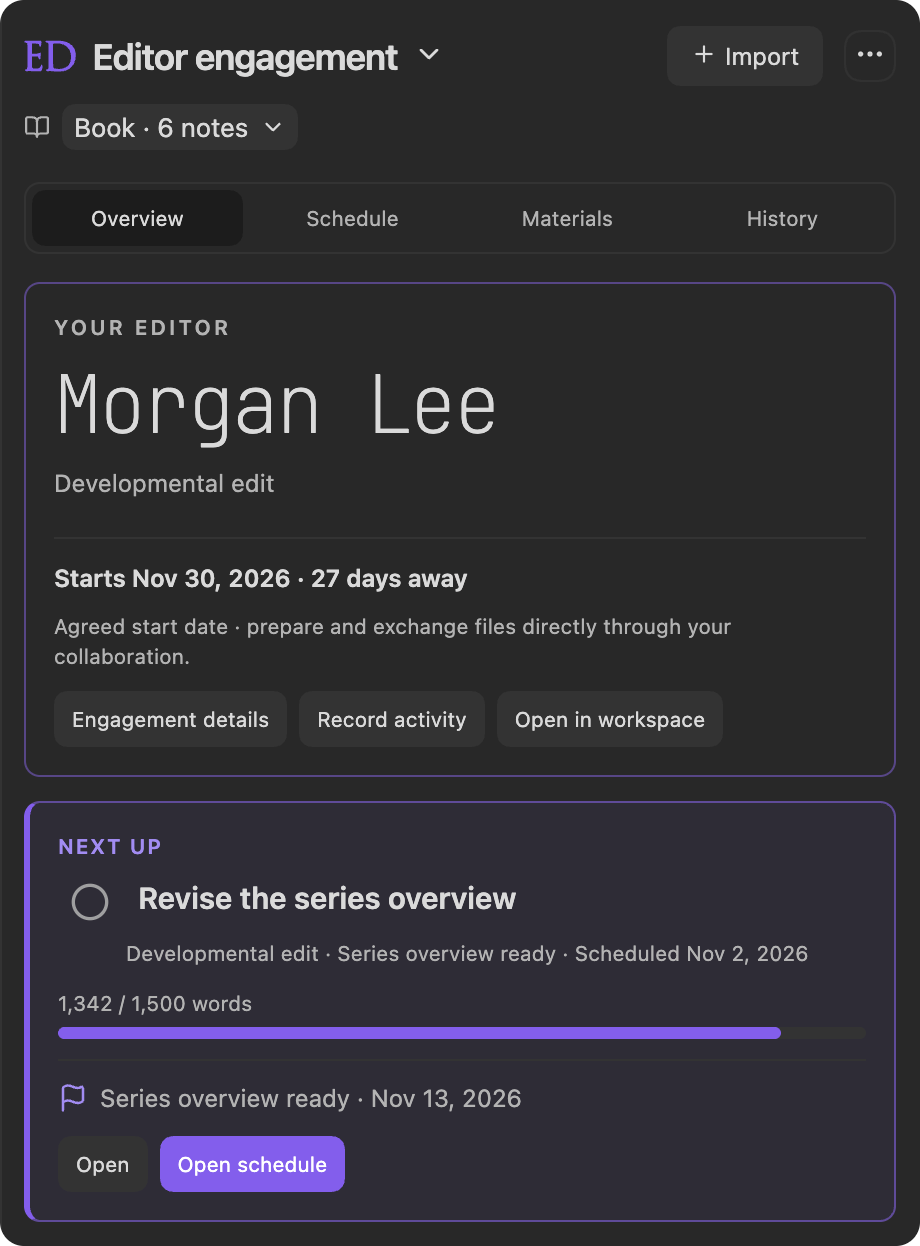
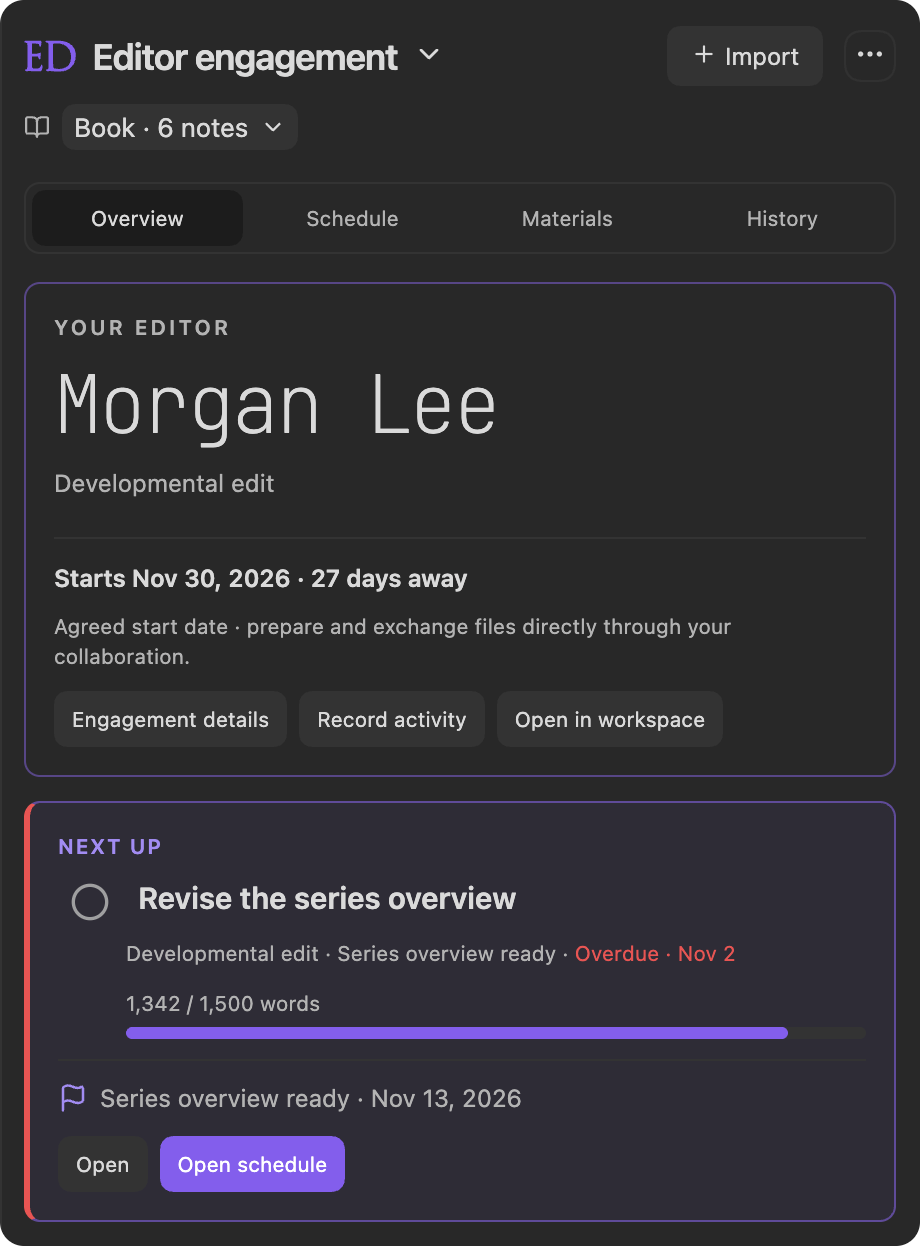
Clear the follow-ups from the 3.1.0 release review
Eric chose a fix for each thing the 3.1.0 screenshot pass turned up.

Scene inventory. The four number columns were a fixed 7.2rem, so in
Obsidian's default settings window a scene name showed as "33 Col…" and in a
narrower one vanished, with "Scene" printed over "Imports". Headers now wrap,
so the number columns are 5.8rem; the table keeps a 36rem minimum and
scrolls sideways below it instead of squeezing names out; a name keeps at
least 4.5rem; and when the scene cell is 13rem or narrower, the Pending
badge shows its icon without the word. Measured at 780, 675 and 560px:
names read at all three, no sideways scroll at 780 or 675, nothing overlaps.

Next up. The engagement overview said "Scheduled Nov 2" for a session Today
and the work queue already showed overdue. It now says "Overdue · Nov 2" in
red with a red edge on the card, and the word-limit bar lines up under the
meta line instead of starting at the card edge. Milestones stay amber. A
rendered test covers both overdue and future sessions.

"Pass", not "sweep". The settings say pass, and now so do Line edits ("Next
in this pass"), the scene-complete handoff ("Finish pass"), the toolbar chip
("pass complete"), the duplicate-import choice, the completion notice and
the launcher's note about review blocks an AI wrote into a scene. The wiki
follows, and the Line edits screenshot is retaken.

Contributors link. Opening Settings on a tab only recorded the tab, so with
[…]

diff --git a/styles.css b/styles.css
@@ -3933,6 +3933,10 @@
 
 .editorialist-settings__inventory-table {
 	width: 100%;
+
+	/* Below this the wrapper scrolls sideways, so a narrow settings window
+	   never squeezes the scene name out of its column. */
+	min-width: 36rem;
 	border-collapse: collapse;
 	font-size: var(--font-ui-small);
 	table-layout: fixed;
@@ -3981,6 +3985,7 @@
 	align-items: center;
 	gap: var(--editorialist-space-sm);
 	min-width: 0;
+	container-type: inline-size;
 }
 
 .editorialist-settings__inventory-rt-glyph {
@@ -4042,10 +4047,11 @@
 	color: color-mix(in srgb, var(--color-red) 38%, var(--text-normal));
 }
 
+/* The name keeps its first few characters; the Pending badge gives way first. */
 .editorialist-settings__inventory-note-link {
 	display: inline-block;
 	flex: 1 1 auto;
-	min-width: 0;
+	min-width: 4.5rem;
 	overflow: hidden;
 	text-overflow: ellipsis;
 	white-space: nowrap;
@@ -4079,6 +4085,7 @@
 
 .editorialist-settings__inventory-pending-badge-icon {
 	display: inline-flex;
+	flex: 0 0 auto;
 	align-items: center;
 	justify-content: center;
 }
@@ -4092,8 +4099,23 @@
 	line-height: 1.1;
 }
 
-.editorialist-settings__inventory-col-number {
-	width: 7.2rem;
+/* A narrow scene column keeps the badge's icon and drops its word, so the
+   scene name keeps the room. The badge's label still names it. */
+@container (max-width: 13rem) {
+	.editorialist-settings__inventory-pending-badge {
+		padding: 0.1rem 0.3rem;
+	}
+
+	.editorialist-settings__inventory-pending-badge-text {
+		display: none;
+	}
+}
+
+/* Wide enough for the longest header word, "Finished", once headers wrap;
+   the values are short and right-aligned, so the left padding can be small. */
+.editorialist-settings__inventory-table .editorialist-settings__inventory-col-number {
+	width: 5.8rem;
+	padding-inline-start: 0.4rem;
 	text-align: right;
 	font-variant-numeric: tabular-nums;
 }
@@ -8558,9 +8580,23 @@ a:not([aria-disabled="true"], .is-disabled):hover {
 	height: 15px;
 }
 
-.editorialist-project__next-meta.is-overdue,
 .editorialist-project__next-milestone.is-overdue {
 	color: var(--text-warning);
+}
+
+/* An overdue session: red, as Today and the work queue mark it. Milestones
+   stay amber. */
+.editorialist-project__next.is-overdue {
+	border-inline-start-color: var(--text-error);
+}
+
+.editorialist-project__next-overdue {
+	color: var(--text-error);
+}
+
+/* The word-limit bar sits under the session's title, past its status circle. */
+.editorialist-project__next > .editorialist-word-limit {
+	margin-inline-start: 34px;
 }
 
 /* Collapsible sections: one shape for milestones, tasks, and materials. */

diff --git a/src/ui/EditorialProjectPanel.ts b/src/ui/EditorialProjectPanel.ts
@@ -4,6 +4,7 @@ import { bindCompletionMenu } from "./primitives/CompletionMenu";
 import { Modal, Notice, TFile, normalizePath, setIcon, type App } from "obsidian";
 import { collaborationUrl, createEditorialProject, engagementReturned, engagementStartCountdown, isProjectEditorProfile, materialDue, projectEditor, recordProjectEvent, shiftDate, type EditorialProject, type EngagementRecord, type EngagementTask, type ProjectMaterial } from "../core/planning/EditorialProject";
 import { isDate, localDate, type RevisionPlan } from "../core/planning/RevisionPlan";
+import { planDayLabel } from "../core/planning/WorkPresentation";
 
 import type { EditorialDelivery } from "../core/EditorialDeliveries";
 import type { EditorialProjectService } from "../services/EditorialProjectService";
@@ -194,8 +195,17 @@ export class EditorialProjectPanel {
 			const task = head.taskId ? project.tasks.find((item) => item.id === head.taskId) : undefined;
 			if (task) this.finishToggle(row, task);
 			row.createSpan({ cls: "editorialist-project__next-title", text: head.title });
-			const meta = [task ? null : head.kindLabel, head.detail, head.day ? `Scheduled ${dayLabel(head.day)}` : null].filter(Boolean).join(" · ");
-			if (meta) card.createDiv({ cls: `editorialist-project__next-meta${task ? "" : " is-flush"}`, text: meta });
+			// A session whose day has passed reads as Today and the queue show it:
+			// the missed day in red, with a red edge on the card.
+			const overdue = head.day !== null && head.day < today;
+			if (overdue) card.addClass("is-overdue");
+			const parts = [task ? null : head.kindLabel, head.detail].filter(Boolean).join(" · ");
+			if (parts || head.day) {
+				const meta = card.createDiv({ cls: `editorialist-project__next-meta${task ? "" : " is-flush"}` });
+				if (parts) meta.createSpan({ text: parts });
+				if (parts && head.day) meta.createSpan({ text: " · " });
+				if (head.day) meta.createSpan({ cls: overdue ? "editorialist-project__next-overdue" : "", text: overdue ? `Overdue · ${planDayLabel(head.day)}` : `Scheduled ${dayLabel(head.day)}` });
+			}
 			const material = task?.materialId ? project.materials.find((item) => item.id === task.materialId) : undefined;
 			if (material) this.wordLimit(card, material);
 		} else {

diff --git a/src/ui/EditorialProjectPanel.test.ts b/src/ui/EditorialProjectPanel.test.ts
@@ -1,0 +1,37 @@
+// @vitest-environment happy-dom
+import { describe, expect, it, vi } from "vitest";
+import { addDays } from "../core/planning/AutoSchedule";
+import { createEditorialProject } from "../core/planning/EditorialProject";
+import { emptyRevisionPlan, localDate } from "../core/planning/RevisionPlan";
+import { planDayLabel } from "../core/planning/WorkPresentation";
+import { EditorialProjectPanel, type ProjectPanelHost, type QueueHead } from "./EditorialProjectPanel";
+
+vi.mock("obsidian", () => import("../../tests/mocks/obsidianDom"));
+
+function nextUp(day: string): HTMLElement {
+	let id = 0;
+	const project = createEditorialProject("Morgan Lee", "2026-11-30", () => String(++id));
+	const head: QueueHead = { title: "Revise the series overview", kindLabel: "Engagement task", detail: "Developmental edit", taskId: null, day, open: null };
+	const host = { app: {}, plan: { ...emptyRevisionPlan(), project }, deliveries: [], busy: false, getReviewers: () => [], nextInQueue: () => head, wordCounts: {} };
+	const root = document.createElement("div");
+	// SAFE: the overview reaches the host only through the members stubbed above.
+	new EditorialProjectPanel(host as unknown as ProjectPanelHost).renderOverview(root);
+	return root.querySelector<HTMLElement>(".editorialist-project__next")!;
+}
+
+describe("Next up on the engagement overview", () => {
+	it("marks a session whose day has passed as overdue, as Today and the queue do", () => {
+		const yesterday = addDays(localDate(new Date()), -1);
+		const card = nextUp(yesterday);
+		expect(card.classList.contains("is-overdue")).toBe(true);
+		expect(card.querySelector(".editorialist-project__next-overdue")?.textContent).toBe(`Overdue · ${planDayLabel(yesterday)}`);
+		expect(card.textContent).not.toContain("Scheduled");
+	});
+
+	it("keeps a session still to come as scheduled", () => {
+		const card = nextUp(addDays(localDate(new Date()), 2));
+		expect(card.classList.contains("is-overdue")).toBe(false);
+		expect(card.querySelector(".editorialist-project__next-overdue")).toBeNull();
+		expect(card.querySelector(".editorialist-project__next-meta")?.textContent).toContain("Scheduled");
+	});
+});

diff --git a/src/main.ts b/src/main.ts
@@ -2207,12 +2207,12 @@ export default class EditorialistPlugin extends Plugin {
 			isFinal,
 			nextLabel: nextPath ? this.getNoteDisplayLabel(nextPath) : undefined,
 			nextPath,
-			primaryActionLabel: isFinal ? "Finish sweep" : `Next ${unitLabel}`,
+			primaryActionLabel: isFinal ? "Finish pass" : `Next ${unitLabel}`,
 			progressLabel: isFinal
 				? "You're done with this pass."
 				: `${guidedSweep.currentNoteIndex + 1} of ${guidedSweep.notePaths.length}`,
 			panelProgressLabel: `${unitTitle} ${guidedSweep.currentNoteIndex + 1} of ${guidedSweep.notePaths.length}`,
-			secondaryActionLabel: isFinal ? undefined : "Finish sweep",
+			secondaryActionLabel: isFinal ? undefined : "Finish pass",
 			summary: isFinal
 				? "You're done with this pass."
 				: `All revision notes in this ${unitLabel} are resolved.`,

diff --git a/src/ui/EditorialistSettingTab.ts b/src/ui/EditorialistSettingTab.ts
@@ -42,9 +42,14 @@ export class EditorialistSettingTab extends PluginSettingTab {
 	private activeBookOnly = true;
 	private activeTab: SettingsTabId = "core";
 
-	// The tab to show the next time the settings open.
+	// The tab to show. When the settings are already on screen, show it now:
+	// recording it alone left the old tab drawn, and a click on the new tab then
+	// did nothing because it already counted as active. Otherwise display()
+	// shows it when the settings open.
 	selectTab(tab: SettingsTabId): void {
+		if (this.activeTab === tab) return;
 		this.activeTab = tab;
+		if (this.containerEl.isConnected) void this.displayAsync(false);
 	}
 	private displayRunId = 0;
 	private contributorEvents = new Component();

diff --git a/src/ui/EditorialistModal.ts b/src/ui/EditorialistModal.ts
@@ -436,7 +436,7 @@ export class EditorialistModal extends Modal {
 		});
 		card.createDiv({
 			cls: "editorialist-control-modal__card-copy",
-			text: `A ${getReviewBlockFenceLabel()} was written directly into this ${unitLabel}. Import it to stamp the block, register the sweep, and review it with the normal workflow.`,
+			text: `A ${getReviewBlockFenceLabel()} was written directly into this ${unitLabel}. Import it to review it like any other pass.`,
 		});
 
 		card.createEl("hr", { cls: "editorialist-control-modal__divider" });

diff --git a/src/core/review/DuplicateImportPrompt.ts b/src/core/review/DuplicateImportPrompt.ts
@@ -53,7 +53,7 @@ export function buildDuplicateImportPrompt(input: DuplicateImportPromptInput): D
 				"You imported this batch and have not finished it. Open the existing sweep to carry on where you left off, or import again to start a second copy alongside it.",
 			details,
 			choices: [
-				{ label: "Open existing sweep", value: "open" },
+				{ label: "Open existing pass", value: "open" },
 				{ label: "Import anyway", value: "import" },
 				{ label: "Cancel", value: "cancel" },
 			],

diff --git a/src/ui/viewmodels/ToolbarStateInputs.ts b/src/ui/viewmodels/ToolbarStateInputs.ts
@@ -103,7 +103,7 @@ export interface ReviewBranchInputs {
 	suggestionsLength: number;
 	effectiveStatuses: ReviewStatus[]; // per-suggestion, in order
 	anchorDirection?: "above" | "below";
-	sweepComplete: boolean; // -> completionLabel "sweep complete" | undefined
+	sweepComplete: boolean; // -> completionLabel "pass complete" | undefined
 	sceneProgressLabel?: string;
 	canApply: boolean;
 	canDefer: boolean;

diff --git a/src/i18n/locales/en.ts b/src/i18n/locales/en.ts
@@ -79,7 +79,7 @@ export const en = {
 	"toolbar.shift": "Shift",
 	"toolbar.shiftCmd": "Shift + Cmd",
 	"toolbar.metaDescription": "{{text}}. {{title}}",
-	"toolbar.sweepComplete": "sweep complete",
+	"toolbar.sweepComplete": "pass complete",
 	"toolbar.entries.one": "{{count}} entry",
 	"toolbar.entries.other": "{{count}} entries",
 	"toolbar.entryIndex": "Entry {{index}}/{{total}}",

diff --git a/src/ui/panels/ReviewPanelIdleSections.ts b/src/ui/panels/ReviewPanelIdleSections.ts
@@ -314,7 +314,7 @@ export function renderContinueReviewCard(
 	setIcon(eyebrowIcon, "pen-tool");
 	eyebrow.createSpan({
 		cls: "editorialist-panel__continue-eyebrow-text",
-		text: launchTarget.intent === "active" ? "Continue review" : "Next in sweep",
+		text: launchTarget.intent === "active" ? "Continue review" : "Next in this pass",
 	});
 
 	card.createDiv({

diff --git a/src/services/ReviewWorkflowService.ts b/src/services/ReviewWorkflowService.ts
@@ -168,7 +168,7 @@ export class ReviewWorkflowService {
 		});
 		this.store.setGuidedSweep(null);
 		await this.host.enterCompletedSweepAudit();
-		this.host.notify("Guided sweep complete.");
+		this.host.notify("Pass complete.");
 	}
 
 	private checkTarget(paths: readonly string[]): boolean {

diff --git a/src/ui/viewmodels/ToolbarStateInputs.fixtures.ts b/src/ui/viewmodels/ToolbarStateInputs.fixtures.ts
@@ -309,7 +309,7 @@ export const TOOLBAR_FIXTURES: ToolbarFixture[] = [
 		expected: {
 			mode: "review",
 			anchorDirection: "below",
-			completionLabel: "sweep complete",
+			completionLabel: "pass complete",
 			pendingCount: 0,
 			acceptedCount: 1,
 			rejectedCount: 1,
